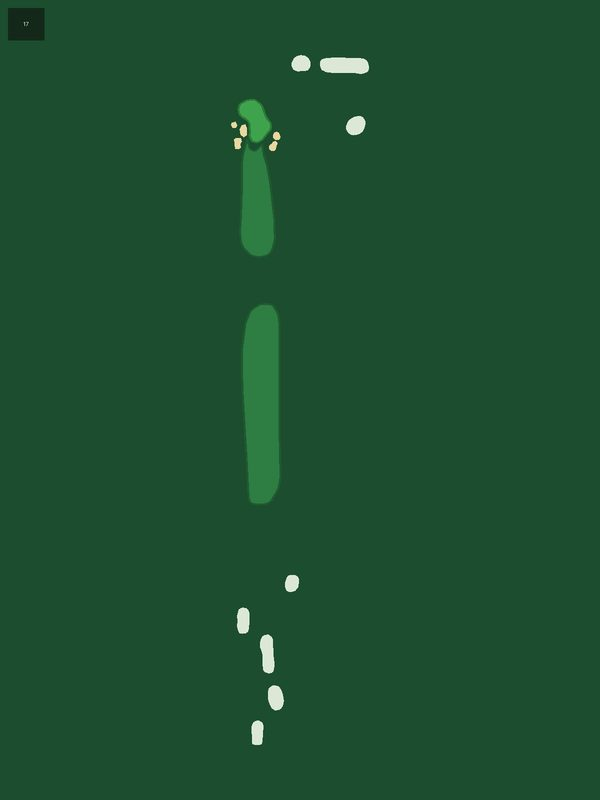
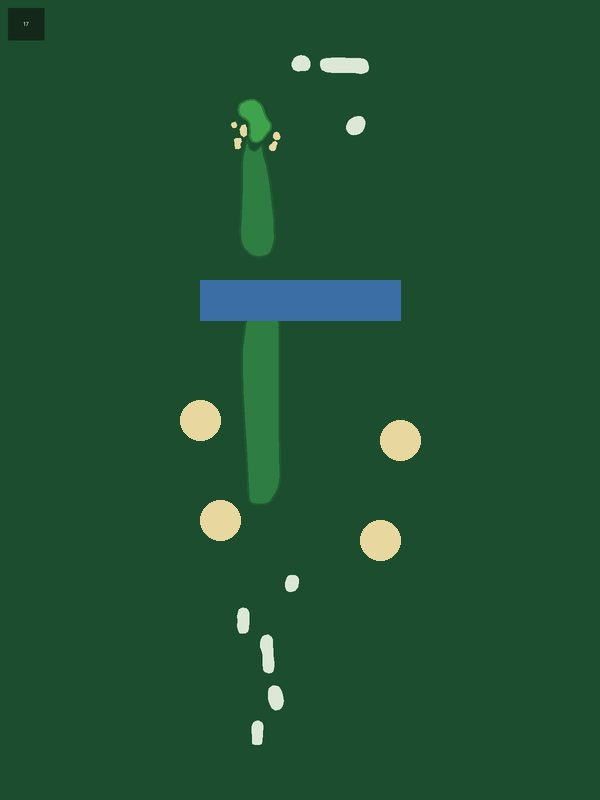
TPC Southwind: fix map geometry (H1/H13/H16/H17 water+fairway, H9 wrong-green pin, H5 par) + 24 to-pin markers + distance scales

diff --git a/app/lib/widgets/hole_map_manifest.dart b/app/lib/widgets/hole_map_manifest.dart
@@ -272,24 +272,24 @@ const holeMapManifest = <String, Map<int, HoleMapAsset>>{
     18: HoleMapAsset(par: 4, map: 'assets/hole_maps/tpc-scottsdale/18.jpg', mask: 'assets/hole_maps/tpc-scottsdale/18_mask.png', tee: Offset(0.561, 0.918), pin: Offset(0.563, 0.121), source: 'osm'),
   },
   'TPC Southwind': {
-    1: HoleMapAsset(par: 4, map: 'assets/hole_maps/tpc-southwind/1.jpg', mask: 'assets/hole_maps/tpc-southwind/1_mask.png', tee: Offset(0.428, 0.914), pin: Offset(0.429, 0.219), source: 'osm'),
-    2: HoleMapAsset(par: 4, map: 'assets/hole_maps/tpc-southwind/2.jpg', mask: 'assets/hole_maps/tpc-southwind/2_mask.png', tee: Offset(0.625, 0.912), pin: Offset(0.630, 0.107), source: 'osm'),
+    1: HoleMapAsset(par: 4, map: 'assets/hole_maps/tpc-southwind/1.jpg', mask: 'assets/hole_maps/tpc-southwind/1_mask.png', tee: Offset(0.370, 0.897), pin: Offset(0.429, 0.219), source: 'osm', yardsPerPixel: 0.31449, yardages: const [YardageMarker(offset: Offset(0.500, 0.394), yards: 139), YardageMarker(offset: Offset(0.511, 0.459), yards: 174)]),
+    2: HoleMapAsset(par: 4, map: 'assets/hole_maps/tpc-southwind/2.jpg', mask: 'assets/hole_maps/tpc-southwind/2_mask.png', tee: Offset(0.655, 0.825), pin: Offset(0.630, 0.107), source: 'osm'),
     3: HoleMapAsset(par: 5, map: 'assets/hole_maps/tpc-southwind/3.jpg', mask: 'assets/hole_maps/tpc-southwind/3_mask.png', tee: Offset(0.524, 0.920), pin: Offset(0.528, 0.105), source: 'osm'),
-    4: HoleMapAsset(par: 3, map: 'assets/hole_maps/tpc-southwind/4.jpg', mask: 'assets/hole_maps/tpc-southwind/4_mask.png', tee: Offset(0.557, 0.892), pin: Offset(0.552, 0.359), source: 'osm'),
-    5: HoleMapAsset(par: 5, map: 'assets/hole_maps/tpc-southwind/5.jpg', mask: 'assets/hole_maps/tpc-southwind/5_mask.png', tee: Offset(0.608, 0.920), pin: Offset(0.606, 0.161), source: 'osm'),
-    6: HoleMapAsset(par: 4, map: 'assets/hole_maps/tpc-southwind/6.jpg', mask: 'assets/hole_maps/tpc-southwind/6_mask.png', tee: Offset(0.455, 0.909), pin: Offset(0.451, 0.193), source: 'osm'),
+    4: HoleMapAsset(par: 3, map: 'assets/hole_maps/tpc-southwind/4.jpg', mask: 'assets/hole_maps/tpc-southwind/4_mask.png', tee: Offset(0.557, 0.892), pin: Offset(0.552, 0.359), source: 'osm', yardsPerPixel: 0.15589, yardages: const [YardageMarker(offset: Offset(0.489, 0.343), yards: 3), YardageMarker(offset: Offset(0.560, 0.337), yards: 0), YardageMarker(offset: Offset(0.566, 0.342), yards: 5), YardageMarker(offset: Offset(0.510, 0.377), yards: 16)]),
+    5: HoleMapAsset(par: 4, map: 'assets/hole_maps/tpc-southwind/5.jpg', mask: 'assets/hole_maps/tpc-southwind/5_mask.png', tee: Offset(0.608, 0.920), pin: Offset(0.606, 0.161), source: 'osm'),
+    6: HoleMapAsset(par: 4, map: 'assets/hole_maps/tpc-southwind/6.jpg', mask: 'assets/hole_maps/tpc-southwind/6_mask.png', tee: Offset(0.455, 0.909), pin: Offset(0.451, 0.170), source: 'osm'),
     7: HoleMapAsset(par: 4, map: 'assets/hole_maps/tpc-southwind/7.jpg', mask: 'assets/hole_maps/tpc-southwind/7_mask.png', tee: Offset(0.541, 0.811), pin: Offset(0.541, 0.091), source: 'osm'),
-    8: HoleMapAsset(par: 3, map: 'assets/hole_maps/tpc-southwind/8.jpg', mask: 'assets/hole_maps/tpc-southwind/8_mask.png', tee: Offset(0.678, 0.891), pin: Offset(0.680, 0.194), source: 'osm'),
-    9: HoleMapAsset(par: 4, map: 'assets/hole_maps/tpc-southwind/9.jpg', mask: 'assets/hole_maps/tpc-southwind/9_mask.png', tee: Offset(0.552, 0.918), pin: Offset(0.694, 0.107), source: 'osm'),
+    8: HoleMapAsset(par: 3, map: 'assets/hole_maps/tpc-southwind/8.jpg', mask: 'assets/hole_maps/tpc-southwind/8_mask.png', tee: Offset(0.678, 0.891), pin: Offset(0.680, 0.194), source: 'osm', yardsPerPixel: 0.13307, yardages: const [YardageMarker(offset: Offset(0.744, 0.214), yards: 11), YardageMarker(offset: Offset(0.701, 0.249), yards: 18), YardageMarker(offset: Offset(0.636, 0.256), yards: 20)]),
+    9: HoleMapAsset(par: 4, map: 'assets/hole_maps/tpc-southwind/9.jpg', mask: 'assets/hole_maps/tpc-southwind/9_mask.png', tee: Offset(0.552, 0.918), pin: Offset(0.543, 0.188), source: 'osm'),
     10: HoleMapAsset(par: 4, map: 'assets/hole_maps/tpc-southwind/10.jpg', mask: 'assets/hole_maps/tpc-southwind/10_mask.png', tee: Offset(0.429, 0.919), pin: Offset(0.426, 0.102), source: 'osm'),
-    11: HoleMapAsset(par: 3, map: 'assets/hole_maps/tpc-southwind/11.jpg', mask: 'assets/hole_maps/tpc-southwind/11_mask.png', tee: Offset(0.518, 0.900), pin: Offset(0.528, 0.268), source: 'osm'),
-    12: HoleMapAsset(par: 4, map: 'assets/hole_maps/tpc-southwind/12.jpg', mask: 'assets/hole_maps/tpc-southwind/12_mask.png', tee: Offset(0.577, 0.871), pin: Offset(0.574, 0.196), source: 'osm'),
-    13: HoleMapAsset(par: 4, map: 'assets/hole_maps/tpc-southwind/13.jpg', mask: 'assets/hole_maps/tpc-southwind/13_mask.png', tee: Offset(0.499, 0.838), pin: Offset(0.505, 0.097), source: 'osm'),
-    14: HoleMapAsset(par: 3, map: 'assets/hole_maps/tpc-southwind/14.jpg', mask: 'assets/hole_maps/tpc-southwind/14_mask.png', tee: Offset(0.399, 0.883), pin: Offset(0.404, 0.179), source: 'osm'),
-    15: HoleMapAsset(par: 4, map: 'assets/hole_maps/tpc-southwind/15.jpg', mask: 'assets/hole_maps/tpc-southwind/15_mask.png', tee: Offset(0.382, 0.894), pin: Offset(0.378, 0.188), source: 'osm'),
+    11: HoleMapAsset(par: 3, map: 'assets/hole_maps/tpc-southwind/11.jpg', mask: 'assets/hole_maps/tpc-southwind/11_mask.png', tee: Offset(0.518, 0.900), pin: Offset(0.528, 0.268), source: 'osm', yardsPerPixel: 0.133317, yardages: const [YardageMarker(offset: Offset(0.479, 0.223), yards: 0), YardageMarker(offset: Offset(0.577, 0.210), yards: -2), YardageMarker(offset: Offset(0.419, 0.237), yards: 4), YardageMarker(offset: Offset(0.570, 0.264), yards: 13), YardageMarker(offset: Offset(0.556, 0.551), yards: 82)]),
+    12: HoleMapAsset(par: 4, map: 'assets/hole_maps/tpc-southwind/12.jpg', mask: 'assets/hole_maps/tpc-southwind/12_mask.png', tee: Offset(0.575, 0.935), pin: Offset(0.574, 0.196), source: 'osm', yardsPerPixel: 0.24171, yardages: const [YardageMarker(offset: Offset(0.440, 0.314), yards: 100), YardageMarker(offset: Offset(0.432, 0.371), yards: 126)]),
+    13: HoleMapAsset(par: 4, map: 'assets/hole_maps/tpc-southwind/13.jpg', mask: 'assets/hole_maps/tpc-southwind/13_mask.png', tee: Offset(0.502, 0.900), pin: Offset(0.505, 0.097), source: 'osm', yardsPerPixel: 0.3327, yardages: const [YardageMarker(offset: Offset(0.389, 0.410), yards: 201), YardageMarker(offset: Offset(0.461, 0.456), yards: 237)]),
+    14: HoleMapAsset(par: 3, map: 'assets/hole_maps/tpc-southwind/14.jpg', mask: 'assets/hole_maps/tpc-southwind/14_mask.png', tee: Offset(0.399, 0.883), pin: Offset(0.404, 0.179), source: 'osm', yardsPerPixel: 0.18034, yardages: const [YardageMarker(offset: Offset(0.386, 0.158), yards: 8), YardageMarker(offset: Offset(0.410, 0.376), yards: 79)]),
+    15: HoleMapAsset(par: 4, map: 'assets/hole_maps/tpc-southwind/15.jpg', mask: 'assets/hole_maps/tpc-southwind/15_mask.png', tee: Offset(0.382, 0.894), pin: Offset(0.378, 0.188), source: 'osm', yardsPerPixel: 0.2799, yardages: const [YardageMarker(offset: Offset(0.416, 0.344), yards: 120), YardageMarker(offset: Offset(0.391, 0.450), yards: 181)]),
     16: HoleMapAsset(par: 5, map: 'assets/hole_maps/tpc-southwind/16.jpg', mask: 'assets/hole_maps/tpc-southwind/16_mask.png', tee: Offset(0.398, 0.913), pin: Offset(0.401, 0.102), source: 'osm'),
     17: HoleMapAsset(par: 4, map: 'assets/hole_maps/tpc-southwind/17.jpg', mask: 'assets/hole_maps/tpc-southwind/17_mask.png', tee: Offset(0.429, 0.925), pin: Offset(0.425, 0.150), source: 'osm'),
-    18: HoleMapAsset(par: 4, map: 'assets/hole_maps/tpc-southwind/18.jpg', mask: 'assets/hole_maps/tpc-southwind/18_mask.png', tee: Offset(0.362, 0.916), pin: Offset(0.359, 0.131), source: 'osm'),
+    18: HoleMapAsset(par: 4, map: 'assets/hole_maps/tpc-southwind/18.jpg', mask: 'assets/hole_maps/tpc-southwind/18_mask.png', tee: Offset(0.362, 0.916), pin: Offset(0.359, 0.131), source: 'osm', yardsPerPixel: 0.2691, yardages: const [YardageMarker(offset: Offset(0.581, 0.354), yards: 182), YardageMarker(offset: Offset(0.487, 0.454), yards: 200)]),
   },
   'The Ocean Course at Kiawah Island': {
     1: HoleMapAsset(par: 4, map: 'assets/hole_maps/ocean-course-kiawah-island/1.jpg', mask: 'assets/hole_maps/ocean-course-kiawah-island/1_mask.png', tee: Offset(0.451, 0.903), pin: Offset(0.404, 0.106), source: 'osm'),
